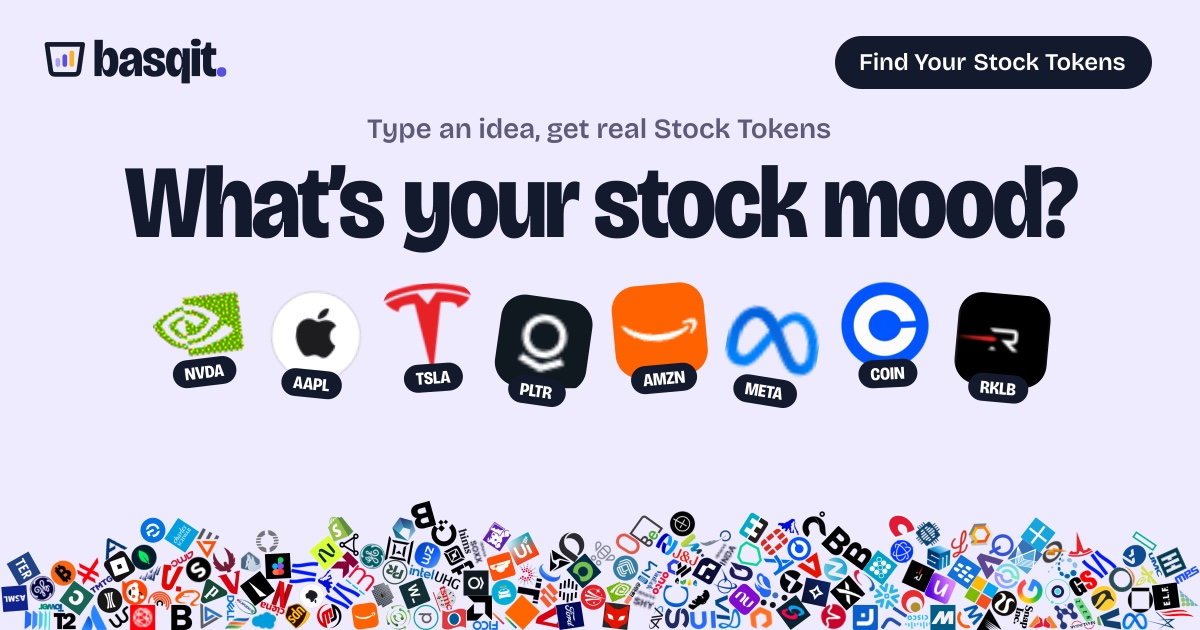
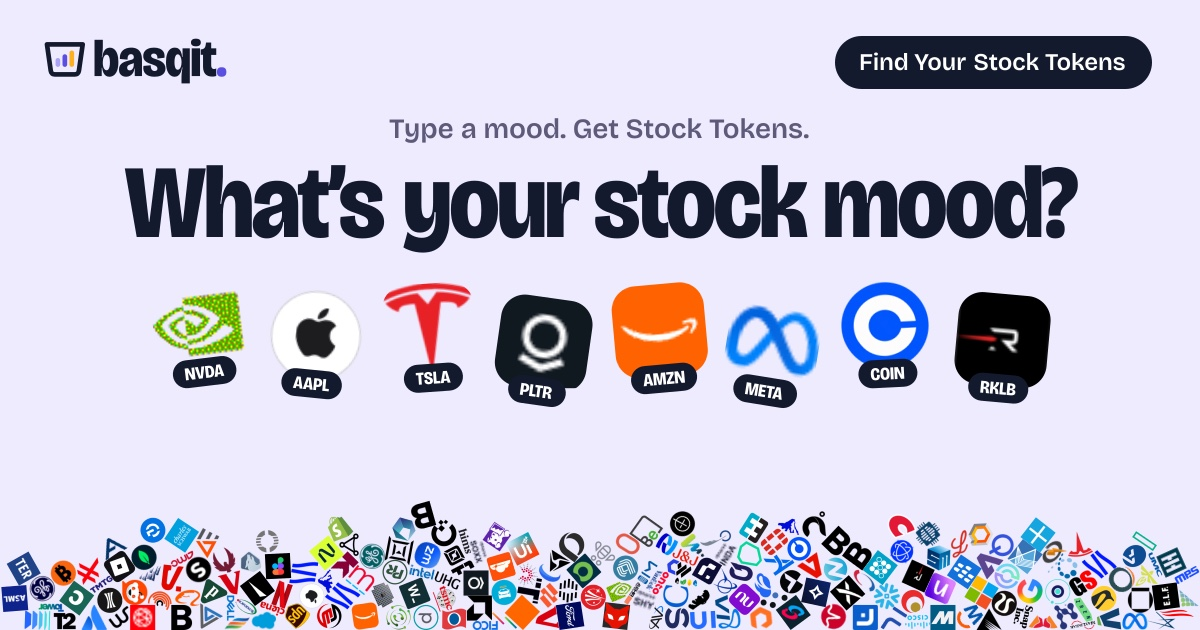
new slogan

Changed region(s): [[0.3083, 0.181, 0.7092, 0.2413]]

diff --git a/packages/nextjs/services/farcaster.ts b/packages/nextjs/services/farcaster.ts
@@ -6,7 +6,7 @@ export function farcasterOrigin() {
   ).origin;
 }
 
-export function miniappEmbed(origin: string, imagePath = "/discover/og/farcaster?v=3", launchPath?: string) {
+export function miniappEmbed(origin: string, imagePath = "/discover/og/farcaster?v=4", launchPath?: string) {
   const image = new URL(imagePath, origin);
   // Farcaster caps image URLs at 1024 characters, including encoded Unicode.
   const theme = [...(image.searchParams.get("theme") || "")];
@@ -26,7 +26,7 @@ export function miniappEmbed(origin: string, imagePath = "/discover/og/farcaster
         // Omitting the URL launches the shared page with its full query intact.
         ...(launchUrl && launchUrl.length <= 1024 ? { url: launchUrl } : {}),
         splashImageUrl: `${origin}/farcaster/splash.png`,
-        splashBackgroundColor: "#f4f5fa",
+        splashBackgroundColor: "#efebff",
       },
     },
   });
@@ -52,19 +52,19 @@ export function farcasterManifest() {
     miniapp: {
       version: "1",
       name: "Basqit",
-      subtitle: "Find your stock mood",
+      subtitle: "Type a mood. Get Stock Tokens.",
       description:
         "Discover stock tokens by idea or theme. Explore your selections and view your portfolio on Robinhood Chain.",
       iconUrl: `${origin}/farcaster/icon.png`,
       homeUrl: `${origin}/discover`,
       splashImageUrl: `${origin}/farcaster/splash.png`,
-      splashBackgroundColor: "#f4f5fa",
+      splashBackgroundColor: "#efebff",
       primaryCategory: "finance",
       tags: ["stocks", "discovery", "portfolio"],
       heroImageUrl: `${origin}/thumbnail.jpg`,
-      tagline: "Find your stock mood",
+      tagline: "Type a mood. Get Stock Tokens.",
       ogTitle: "Basqit",
-      ogDescription: "Turn an idea into a stock selection. Find your stock mood with Basqit.",
+      ogDescription: "Type a mood. Get Stock Tokens on Robinhood Chain.",
       ogImageUrl: `${origin}/thumbnail.jpg`,
     },
   };

diff --git a/packages/nextjs/app/discover/page.tsx b/packages/nextjs/app/discover/page.tsx
@@ -18,18 +18,18 @@ export async function generateMetadata({ searchParams }: { searchParams: Promise
   const title = theme ? `${theme} · My stock mood` : "Find your stock mood";
   const description = symbols.length
     ? `${symbols.join(" · ")}. Explore this stock selection and find your own mood with Basqit.`
-    : "Turn an idea into a stock selection. What’s your stock mood?";
+    : "Type a mood. Get Stock Tokens on Robinhood Chain.";
   const query = new URLSearchParams({
     theme,
     stocks: symbols.join(","),
     layout: String(shareLayout(params.layout, theme)),
   });
-  const image = { url: `${origin}/discover/og?v=6&${query}`, width: 1200, height: 630, alt: title };
+  const image = { url: `${origin}/discover/og?v=7&${query}`, width: 1200, height: 630, alt: title };
   return {
     title,
     description,
     openGraph: { title, description, type: "website", images: [image] },
-    other: { "fc:miniapp": miniappEmbed(origin, `/discover/og/farcaster?v=3&${query}`) },
+    other: { "fc:miniapp": miniappEmbed(origin, `/discover/og/farcaster?v=4&${query}`) },
     twitter: { card: "summary_large_image", title, description, images: [image] },
   };
 }

diff --git a/packages/nextjs/services/discover/shareImage.tsx b/packages/nextjs/services/discover/shareImage.tsx
@@ -52,7 +52,7 @@ export async function renderShareImage(request: NextRequest, farcaster = false) 
       }),
     ),
   ]);
-  const label = theme ? "I’m in the mood for" : "Type an idea, get real Stock Tokens";
+  const label = theme ? "I’m in the mood for" : "Type a mood. Get Stock Tokens.";
   const headline = theme ? (theme.length > 80 ? `${theme.slice(0, 78)}…` : theme) : "What’s your stock mood?";
   // Roughly 0.44em per character at this weight: one line while it fits at 64px or more, else two lines.
   const chars = Math.max(headline.length, 10);

diff --git a/packages/nextjs/app/layout.tsx b/packages/nextjs/app/layout.tsx
@@ -15,7 +15,7 @@ const mono = IBM_Plex_Mono({ subsets: ["latin"], weight: ["400", "600"], variabl
 
 export const metadata = getMetadata({
   title: "Basqit",
-  description: "Your Stock Token balances and corporate events, in one place.",
+  description: "Type a mood. Get Stock Tokens on Robinhood Chain.",
 });
 
 const ScaffoldEthApp = ({ children }: { children: React.ReactNode }) => {

diff --git a/packages/nextjs/utils/scaffold-eth/getMetadata.ts b/packages/nextjs/utils/scaffold-eth/getMetadata.ts
@@ -19,7 +19,7 @@ export const getMetadata = ({
 
   return {
     metadataBase: new URL(baseUrl),
-    other: { "fc:miniapp": miniappEmbed(farcasterOrigin(), "/og/farcaster?v=3", "/") },
+    other: { "fc:miniapp": miniappEmbed(farcasterOrigin(), "/og/farcaster?v=4", "/") },
     title: {
       default: title,
       template: titleTemplate,

diff --git a/packages/nextjs/components/Footer.tsx b/packages/nextjs/components/Footer.tsx
@@ -2,7 +2,7 @@ export const Footer = () => (
   <footer className="bq-footer">
     <div>
       <strong>basqit.</strong>
-      <span>A clearer view of your Stock Tokens.</span>
+      <span>Type a mood. Get Stock Tokens.</span>
     </div>
     <div>
       <span className="badge bq-status">Early preview</span>
